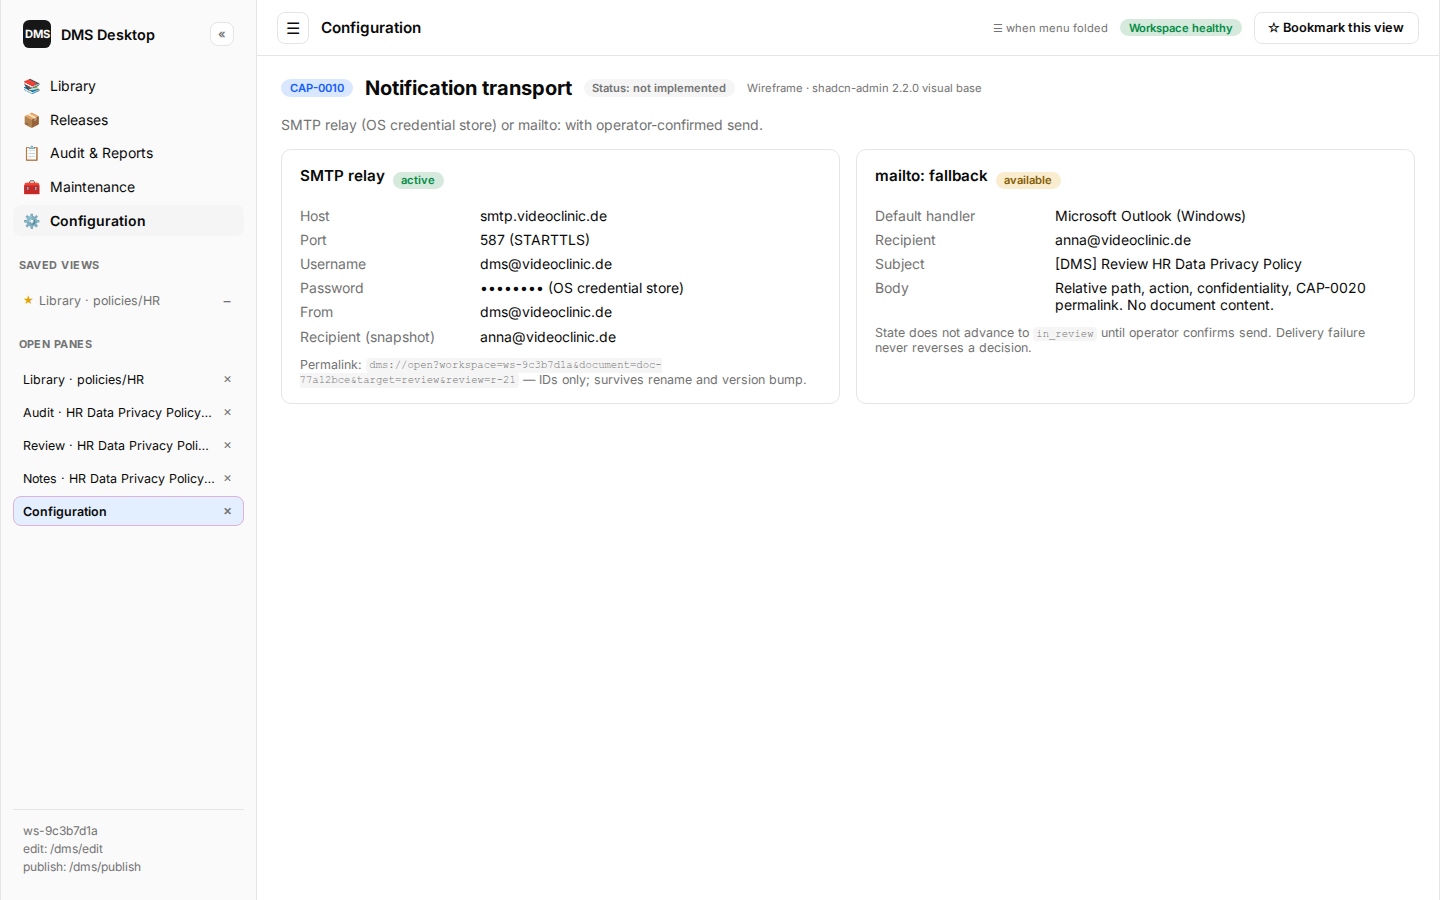
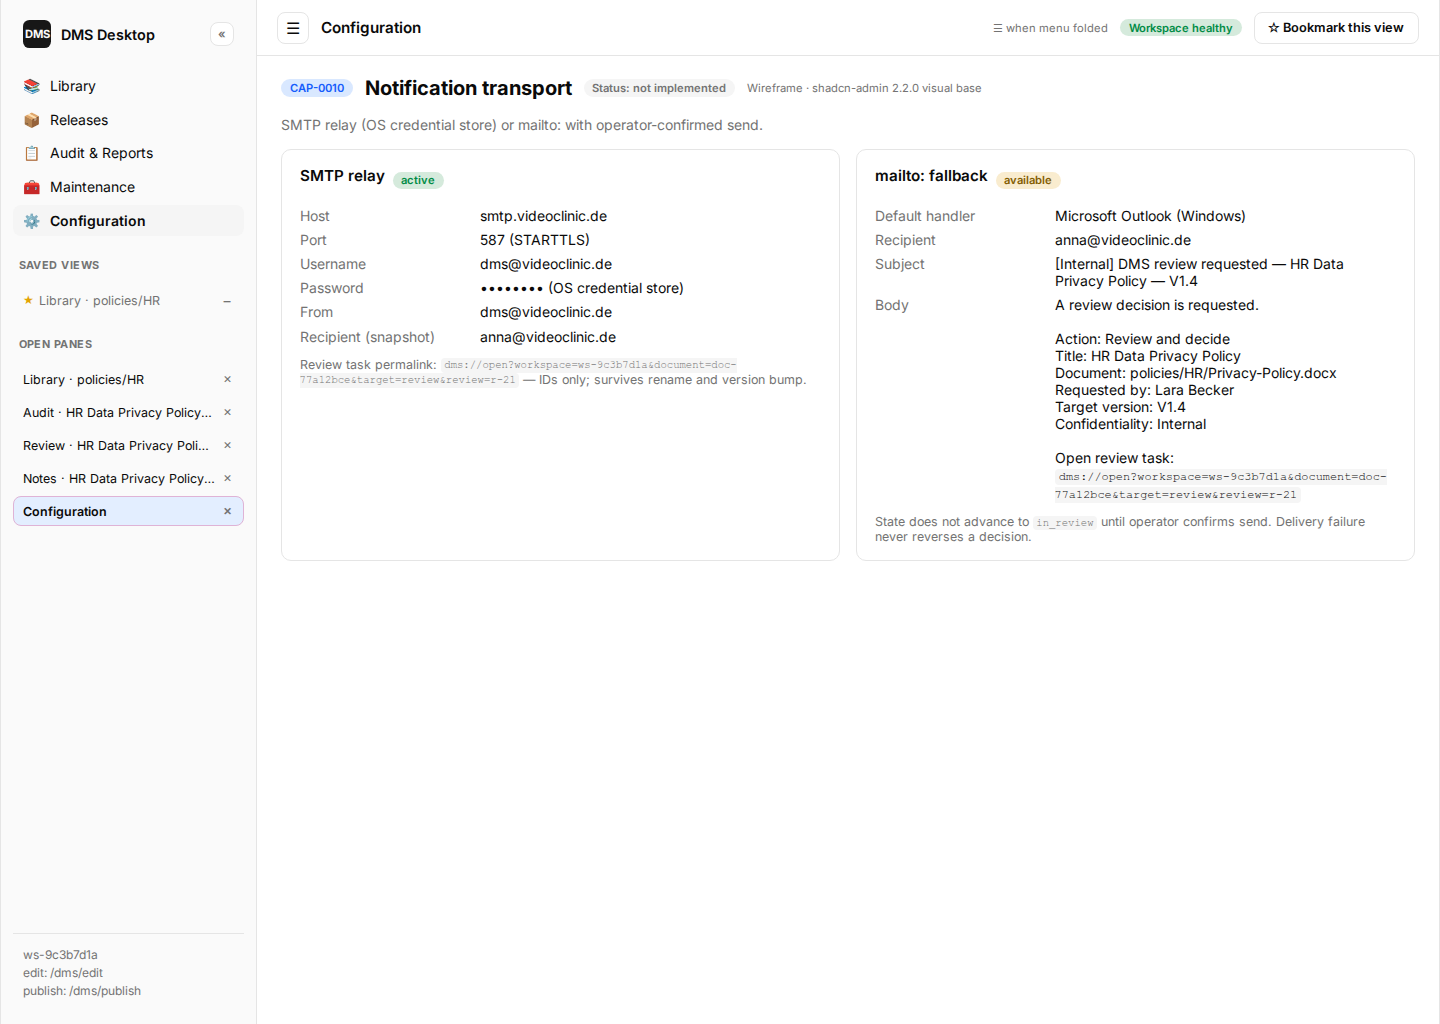
docs(approval): define review-request email

diff --git a/docs/product/wireframes/html/CAP-0010-notification-transport.html b/docs/product/wireframes/html/CAP-0010-notification-transport.html
@@ -232,11 +232,11 @@ tr:last-child td { border-bottom: 0; }
         <section class="card">
           <div class="row gap-2 mb"><h3 class="card-title">SMTP relay</h3><span class="badge ok">active</span></div>
           <dl class="kv"><div><dt>Host</dt><dd>smtp.videoclinic.de</dd></div><div><dt>Port</dt><dd>587 (STARTTLS)</dd></div><div><dt>Username</dt><dd>dms@videoclinic.de</dd></div><div><dt>Password</dt><dd>•••••••• (OS credential store)</dd></div><div><dt>From</dt><dd>dms@videoclinic.de</dd></div><div><dt>Recipient (snapshot)</dt><dd>anna@videoclinic.de</dd></div></dl>
-          <p class="hint">Permalink: <code>dms://open?workspace=ws-9c3b7d1a&amp;document=doc-77a12bce&amp;target=review&amp;review=r-21</code> — IDs only; survives rename and version bump.</p>
+          <p class="hint">Review task permalink: <code>dms://open?workspace=ws-9c3b7d1a&amp;document=doc-77a12bce&amp;target=review&amp;review=r-21</code> — IDs only; survives rename and version bump.</p>
         </section>
         <section class="card">
           <div class="row gap-2 mb"><h3 class="card-title">mailto: fallback</h3><span class="badge warn">available</span></div>
-          <dl class="kv"><div><dt>Default handler</dt><dd>Microsoft Outlook (Windows)</dd></div><div><dt>Recipient</dt><dd>anna@videoclinic.de</dd></div><div><dt>Subject</dt><dd>[DMS] Review HR Data Privacy Policy</dd></div><div><dt>Body</dt><dd>Relative path, action, confidentiality, CAP-0020 permalink. No document content.</dd></div></dl>
+          <dl class="kv"><div><dt>Default handler</dt><dd>Microsoft Outlook (Windows)</dd></div><div><dt>Recipient</dt><dd>anna@videoclinic.de</dd></div><div><dt>Subject</dt><dd>[Internal] DMS review requested — HR Data Privacy Policy — V1.4</dd></div><div><dt>Body</dt><dd>A review decision is requested.<br/><br/>Action: Review and decide<br/>Title: HR Data Privacy Policy<br/>Document: policies/HR/Privacy-Policy.docx<br/>Requested by: Lara Becker<br/>Target version: V1.4<br/>Confidentiality: Internal<br/><br/>Open review task:<br/><code>dms://open?workspace=ws-9c3b7d1a&amp;document=doc-77a12bce&amp;target=review&amp;review=r-21</code></dd></div></dl>
           <p class="hint">State does not advance to <code>in_review</code> until operator confirms send. Delivery failure never reverses a decision.</p>
         </section>
       </div>

diff --git a/docs/changes/active/CHG-0001-tauri-local-dms-bootstrap.md b/docs/changes/active/CHG-0001-tauri-local-dms-bootstrap.md
@@ -12,6 +12,7 @@
 | Follow-up request | Direct operator request: before every later approval nomination, the editor records a changelog and selects a minor, major, or manual target version; only an approved and successfully released target is occupied, while failed review evidence remains auditable; approvers are prompted for an optional non-approval comment. |
 | Follow-up request | Direct operator request: show CAP-0011 workflow-chain entries newest first. |
 | Follow-up request | Direct operator request: reconcile published/release terminology. `publish root` names the storage destination only; release is the sole workflow action and lifecycle transition that creates a released PDF. |
+| Follow-up request | Direct operator request: define the approval-task email’s canonical subject and body; include the requester, DMS-managed title, and target version. |
 | Affected CAPs | CAP-0001 … CAP-0021 |
 | Decision records | ADR-0001 … ADR-0021 in `docs/design-decisions.md` |
 
@@ -43,9 +44,11 @@ macOS** that:
   predecessor hash
 - Sends approver review-request email and requester decision-outcome email
   (SMTP or host mail handler), and records revision-bound approval comments,
-  notification delivery attempts, and event-chain hashes in `.dms`; each
-  notification links the installed local app to the addressed review request
-  via a CAP-0020 permalink
+  notification delivery attempts, and event-chain hashes in `.dms`; the
+  canonical review-request subject/body contains the DMS-managed title,
+  filesystem-derived relative source path, requester display name, candidate
+  target version, confidentiality label, action, and CAP-0020 review permalink
+  without document content or a source/PDF URL
 - Registers stable document permalinks (workspace ID + document ID; optional
   review/notes target) that survive draft rename and version bumps; selection
   pane can copy the permalink
@@ -103,11 +106,11 @@ macOS** that:
 | --- | --- | --- | --- |
 | 0 | Product records and architecture bootstrap | done (docs tree; Markdown source draft plus format-specific local PDF export; release version policy, approval, notification, confidentiality, workflow-role routing, maintenance, periodic review, optional Claude handoff, foldable shell chrome, task-and-target session activity panes with duplicate reuse, saved views, folder-dominant Explorer-like Library navigation with foldable single-document sections and a same-pane batch state, stable document permalinks, Win+macOS recorded) | CAP/CHG/ADR files exist; indexes list CAP-0001…0020; no CAP claims implemented runtime |
 | 0a | Microsoft Entra workflow identity records and wireframes | done (CAP-0021, CAP-0019, ADR-0019, ADR-0021, architecture, privacy, and static screens updated) | CAP-0021 + ADR-0021 replace the application roster with a group binding; CAP-0019 selects only eligible Entra users; static screens show a read-only source, folder-role selection, and no user CRUD; all CAP/CHG/ADR indexes and links validate; no CAP claims implemented runtime |
-| 0b | Target-version review and failure-evidence records + wireframes | done (CAP-0002/0011/0012, ADR-0007/0013, architecture, and affected static screens updated) | CAP-0002/0011/0012 define the required changelog, minor/major/manual candidate selection, no-reservation rule, explicit release action, optional non-approval comment, and newest-first workflow history; CHG/ADR/architecture align; affected static screens show review target selection and retained unsuccessful evidence; generated exports, links, and Markdown checks pass; no CAP claims implemented runtime |
+| 0b | Target-version review and failure-evidence records + wireframes | done (CAP-0002/0011/0012, CAP-0010, ADR-0007/0013, architecture, and affected static screens updated) | CAP-0002/0011/0012 define the required changelog, minor/major/manual candidate selection, no-reservation rule, explicit release action, optional non-approval comment, and newest-first workflow history; CAP-0010 defines the canonical approver review-request message; CHG/ADR/architecture align; affected static screens show review target selection and retained unsuccessful evidence; generated exports, links, and Markdown checks pass; no CAP claims implemented runtime |
 | 1 | Tauri 2 app skeleton (Windows + macOS) + DOX for source tree | pending | Dev app launches on Windows and macOS; README run steps for both; foldable left menu + hamburger + session-only open-activity tabs show task-and-target labels and focus an existing matching task+document pane; collapsed rail icons open saved-view and open-pane flyouts without expanding the whole menu, with open/remove and focus/close actions respectively; explicit saved-view bookmark persists in OS user config and restores as a fresh activity |
 | 2 | `.dms` store + dual-root open/configure + confidentiality, Entra identity binding, and workflow-role policies | pending | Tests: persist/reload edit+publish roots, stable workspace ID, schema version, and non-secret Entra tenant/group binding; safe older-schema migration/newer-schema read-only; create/replace a direct folder policy, remove a non-root policy, refuse root-policy removal, and recompute nearest inherited class; inherit each workflow role independently; replacing the identity source marks live role policies unresolved without changing historical evidence; init `.dms` only on confirm |
 | 3 | Folder-first Library explorer + add/unregister/reassociate + selection pane | pending | Tests: folder pane is visible by default and includes empty edit-root folders while hiding `.dms`; Back/Forward/Up, breadcrumb, tree, and immediate-child contents stay synchronized; every file row keeps its exact filesystem name while an in-library row shows DMS-managed document data separately; one or more unregistered supported source files (including `.md`) can be selected and added from the right pane, while mixed/unsupported selections expose no incompatible batch action; folder navigation reuses one Library activity and updates its folder label; add under edit root; reject outside path; unregister preserves history; rename/reassociate updates only the source locator and does not change document control data or history; ambiguous move is never auto-linked; current-folder and Entire-library search scopes return matching files with paths and clear back to the complete folder listing; single controlled-document selection shows an always-visible Source file identity plus CAP-0015 Document control data and actions in the right pane; the data is loaded from `.dms`, not Office properties or Markdown front matter; its data, action, revision, and release sections fold independently while retaining document and source-file identity; navigating to an already-open task+document focuses the existing pane, while different tasks for that document may remain open; multi-select of controlled documents shows only multi-applicable actions in the same pane; a saved library view restores folder/sort and a single-document stable ID but never batch selection; copy permalink uses workspace+document IDs only and never changes saved views |
-| 4 | Lifecycle + Entra-verified approval + notification + target-version review + tree mirror | pending | Tests with a Graph client fake: request requires non-empty changelog, requester, one target mode (next minor, next major, or validated manual greater-than-current unused target), current eligible effective approver, and transport success; a failed group refresh or unresolved identity blocks request; decision requires the snapshotted Entra tenant/object ID and current eligibility; rejected/changes-requested decisions prompt for an optional reason; the review event retains changelog, candidate, mode, and any decision comment for every outcome; workflow history renders newest first while retaining each predecessor hash; a rejected, changes-requested, cancelled, invalidated, or failed-export candidate remains available; CAP-0020 deep link resolves only an accessible registered workspace to the intended review request and still resolves after rename/version bump; each decision notifies the snapshotted requester, with failure retryable and non-reverting; approver-policy change invalidates an open review; DOCX body/header/footer and Markdown rendered-body version and confidentiality markers must equal the candidate release and effective type before review and again before release; missing, mismatched, and conflicting markers block by default; an explicit, reasoned false-positive override is revision-bound, visible to the approver, and recorded in the event chain; approval preserves its accepted target but only the explicit release action commits it; metadata change invalidates approval; first version V1.0; refuse overwrite |
+| 4 | Lifecycle + Entra-verified approval + notification + target-version review + tree mirror | pending | Tests with a Graph client fake: request requires non-empty changelog, requester, one target mode (next minor, next major, or validated manual greater-than-current unused target), current eligible effective approver, and transport success; a failed group refresh or unresolved identity blocks request; SMTP and `mailto:` render the same canonical review-request subject/body with DMS-managed title, filesystem-derived relative source path, requester display name, candidate target version, confidentiality label, action, and CAP-0020 review permalink only; decision requires the snapshotted Entra tenant/object ID and current eligibility; rejected/changes-requested decisions prompt for an optional reason; the review event retains changelog, candidate, mode, and any decision comment for every outcome; workflow history renders newest first while retaining each predecessor hash; a rejected, changes-requested, cancelled, invalidated, or failed-export candidate remains available; CAP-0020 deep link resolves only an accessible registered workspace to the intended review request and still resolves after rename/version bump; each decision notifies the snapshotted requester, with failure retryable and non-reverting; approver-policy change invalidates an open review; DOCX body/header/footer and Markdown rendered-body version and confidentiality markers must equal the candidate release and effective type before review and again before release; missing, mismatched, and conflicting markers block by default; an explicit, reasoned false-positive override is revision-bound, visible to the approver, and recorded in the event chain; approval preserves its accepted target but only the explicit release action commits it; metadata change invalidates approval; first version V1.0; refuse overwrite |
 | 5 | Format-specific local PDF export on release (Win + macOS adapters) | pending | Tests/integration: export Office drafts through installed Office (or a test double), replacing `{CONFIDENTIALITY}`/`{VERSION}` on a temp copy from the release chrome map; export Markdown through CommonMark + shipped print shell (logo, `Vertraulichkeitsstufe:` / `Version:` footers from the same map, front matter stripped) + native WebView PDF API to the versioned, classified path on each OS; PDF chrome values match the release snapshot; a failed export does not commit or occupy the approved target; WebView2 and WKWebView smoke cover multi-page footer chrome |
 | 6 | Notes on documents | pending | Tests: note CRUD persistence across restart; list is newest-first; New note compose field is above the latest note and remains there after save |
 | 7 | Release checksum + periodic review + verify | pending | Tests: exported PDF → expected SHA-256; tamper → mismatch; release snapshots draft digest, target-version mode/label, changelog, and chain; a case-insensitive Title filter scopes publish-tree releases; selected rows-per-page controls pagination of the filtered result; each non-missing release opens only its recorded PDF while missing files have no open action; periodic confirm keeps version; changes-required begins revision; full backup manifest covers both roots |

diff --git a/docs/product/capabilities/CAP-0010-notification-transport.md b/docs/product/capabilities/CAP-0010-notification-transport.md
@@ -16,10 +16,9 @@ When implemented, the following must hold:
    password is always resolved from the OS credential store, never stored in
    `.dms`.
 2. When the transport is `smtp`, a review request uses the configured relay to
-   send the notification. Successful relay acceptance is recorded in the
-   workflow event chain; failure leaves the document in `draft` and offers a
-   retry. Email contains only the relative path, action, confidentiality
-   label, and local-app deep link (privacy rules).
+   send the canonical review-request notification below. Successful relay
+   acceptance is recorded in the workflow event chain; failure leaves the
+   document in `draft` and offers a retry.
 3. The local-app deep link is a CAP-0020 permalink URI. It identifies the
    workspace and stable document ID, plus the review-request target ID, without
    embedding document content, draft file name, version label, or an absolute
@@ -29,9 +28,9 @@ When implemented, the following must hold:
    eligible local workspace is available, the app reports that condition and
    does not open an arbitrary path or record a workflow decision.
 4. When the transport is `mailto`, the desktop app opens the host's default
-   mail handler with a pre-filled `mailto:` URI including the same notification
-   fields. The lifecycle state does not advance to `in_review` until the
-   operator explicitly confirms in the app that the message was sent.
+   mail handler with the canonical review-request subject and body below in a
+   pre-filled `mailto:` URI. The lifecycle state does not advance to `in_review`
+   until the operator explicitly confirms in the app that the message was sent.
 5. After an `approved`, `rejected`, or `changed_requested` decision is recorded,
    the app notifies the requester's snapshotted email address. The notification
    contains the relative path, decision outcome, confidentiality label, and a
@@ -49,6 +48,42 @@ When implemented, the following must hold:
 8. If the host has no registered mail handler and the transport is `mailto`,
    the action surfaces a clear message naming the missing handler; the
    workflow does not silently fall back to SMTP.
+
+## Review-request notification (contract)
+
+Every review-request notification uses this exact UTF-8 plain-text template for
+the SMTP message and the pre-filled `mailto:` draft. The subject and body have
+the following literal labels and field order:
+
+```text
+Subject: [<confidentiality-label>] DMS review requested — <document-title> — <target-version>
+
+A review decision is requested.
+
+Action: Review and decide
+Title: <document-title>
+Document: <edit-root-relative-source-path>
+Requested by: <requester-display-name>
+Target version: <target-version>
+Confidentiality: <confidentiality-label>
+
+Open review task:
+<review-permalink>
+```
+
+- `<document-title>` is the DMS-managed `title` control field, not the source
+  file name, Office document properties, or Markdown front matter.
+- `<edit-root-relative-source-path>` is the current filesystem-derived source
+  path relative to the edit root.
+- `<requester-display-name>` is the display name snapshotted with the review
+  request; the requester’s email address is not included in the message body.
+- `<target-version>` is the candidate version snapshotted with the review
+  request (for example, `V1.4`). It remains review evidence and is not a
+  reserved or released version.
+- `<review-permalink>` is the CAP-0020 review-target URI. It is the only
+  document link in the notification; the email contains no source-file URL,
+  released-PDF URL, public web URL, attachment, document content, or decision
+  control.
 
 ## Non-goals
 

diff --git a/docs/privacy.md b/docs/privacy.md
@@ -28,14 +28,20 @@
   paths, `.dms` metadata, or approval comments to Microsoft Graph.
 - No telemetry that includes document content or paths unless a future ADR
   explicitly enables opt-in diagnostics.
-- Approval email contains only the document display/relative path, requested
-  action or decision outcome, configured confidentiality label, and local-app
-  CAP-0020 permalink (workspace ID + document ID [+ review target]); it never
-  attaches or uploads draft or released document content. Permalinks never put
-  draft or PDF bytes in the URI.
-- The configured confidentiality label is rendered in the notification subject
-  but no body field that could embed document content is generated. The same
-  rule applies to `mailto:` fallback drafts.
+- A review-request email contains only the DMS-managed document title,
+  filesystem-derived edit-root-relative source path, requested action,
+  requester display name, candidate target version, configured confidentiality
+  label, and CAP-0020 review permalink (workspace ID + document ID + review
+  target). It never attaches or uploads draft or released document content.
+  Permalinks never put draft or PDF bytes in the URI.
+- A decision-outcome email contains only the document display/relative path,
+  decision outcome, configured confidentiality label, and local-app CAP-0020
+  permalink to the review detail; it does not include document content or the
+  decision comment.
+- The configured confidentiality label, DMS-managed title, and candidate target
+  version are rendered in the review-request subject. No generated body field
+  may embed document content. The same rule and template apply to `mailto:`
+  fallback drafts.
 - Each released PDF filename includes its effective confidentiality type ID.
   Anyone who can list the publish tree can therefore see that classification;
   filesystem access remains the operator's responsibility.
